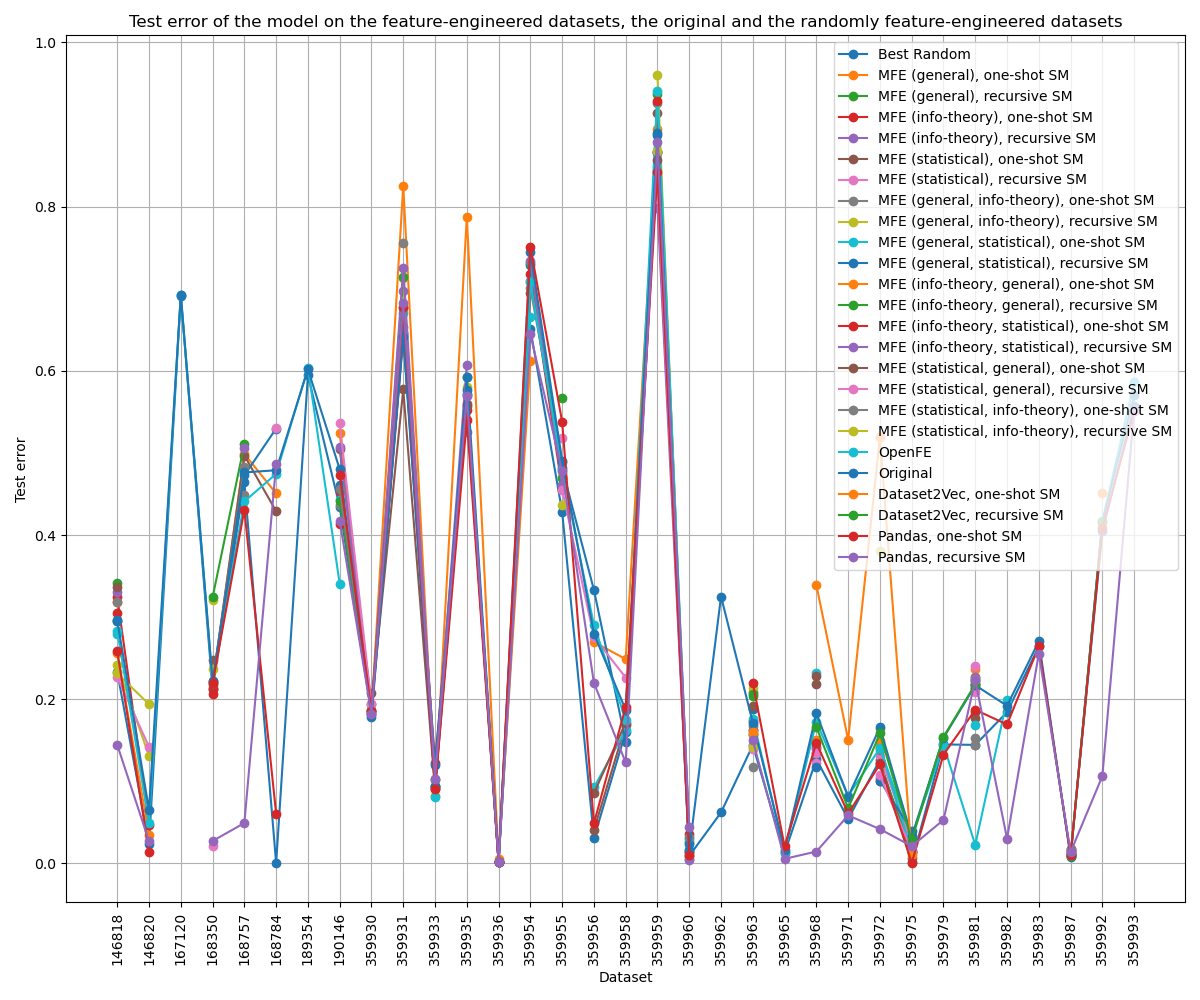
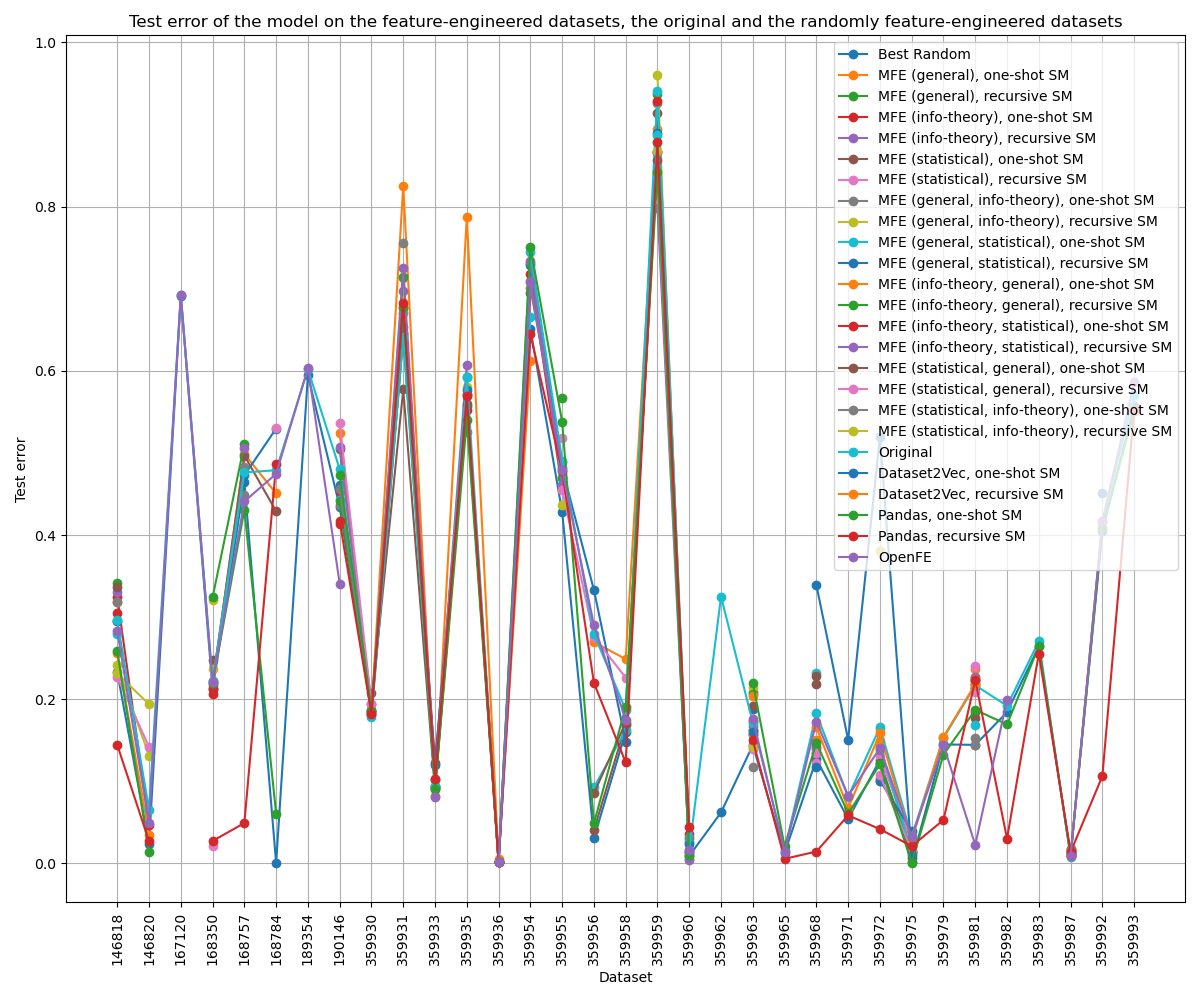
Same colors for all graphs

diff --git a/src/Result_Analysis/test_analysis/test_analysis.py b/src/Result_Analysis/test_analysis/test_analysis.py
@@ -97,6 +97,8 @@ def plot_score_graph(dataset_list_wrapped, df_pivot, name):
         else:
             score_type = "test"
         large_plot = True
+        column_to_move = df_pivot.pop("OpenFE")
+        df_pivot.insert(len(df_pivot.columns), "OpenFE", column_to_move)
     df_filtered = df_pivot[(df_pivot.le(1) | df_pivot.isna()).all(axis=1)]
     dataset_list_wrapped = df_filtered.index.tolist()
     if large_plot:
